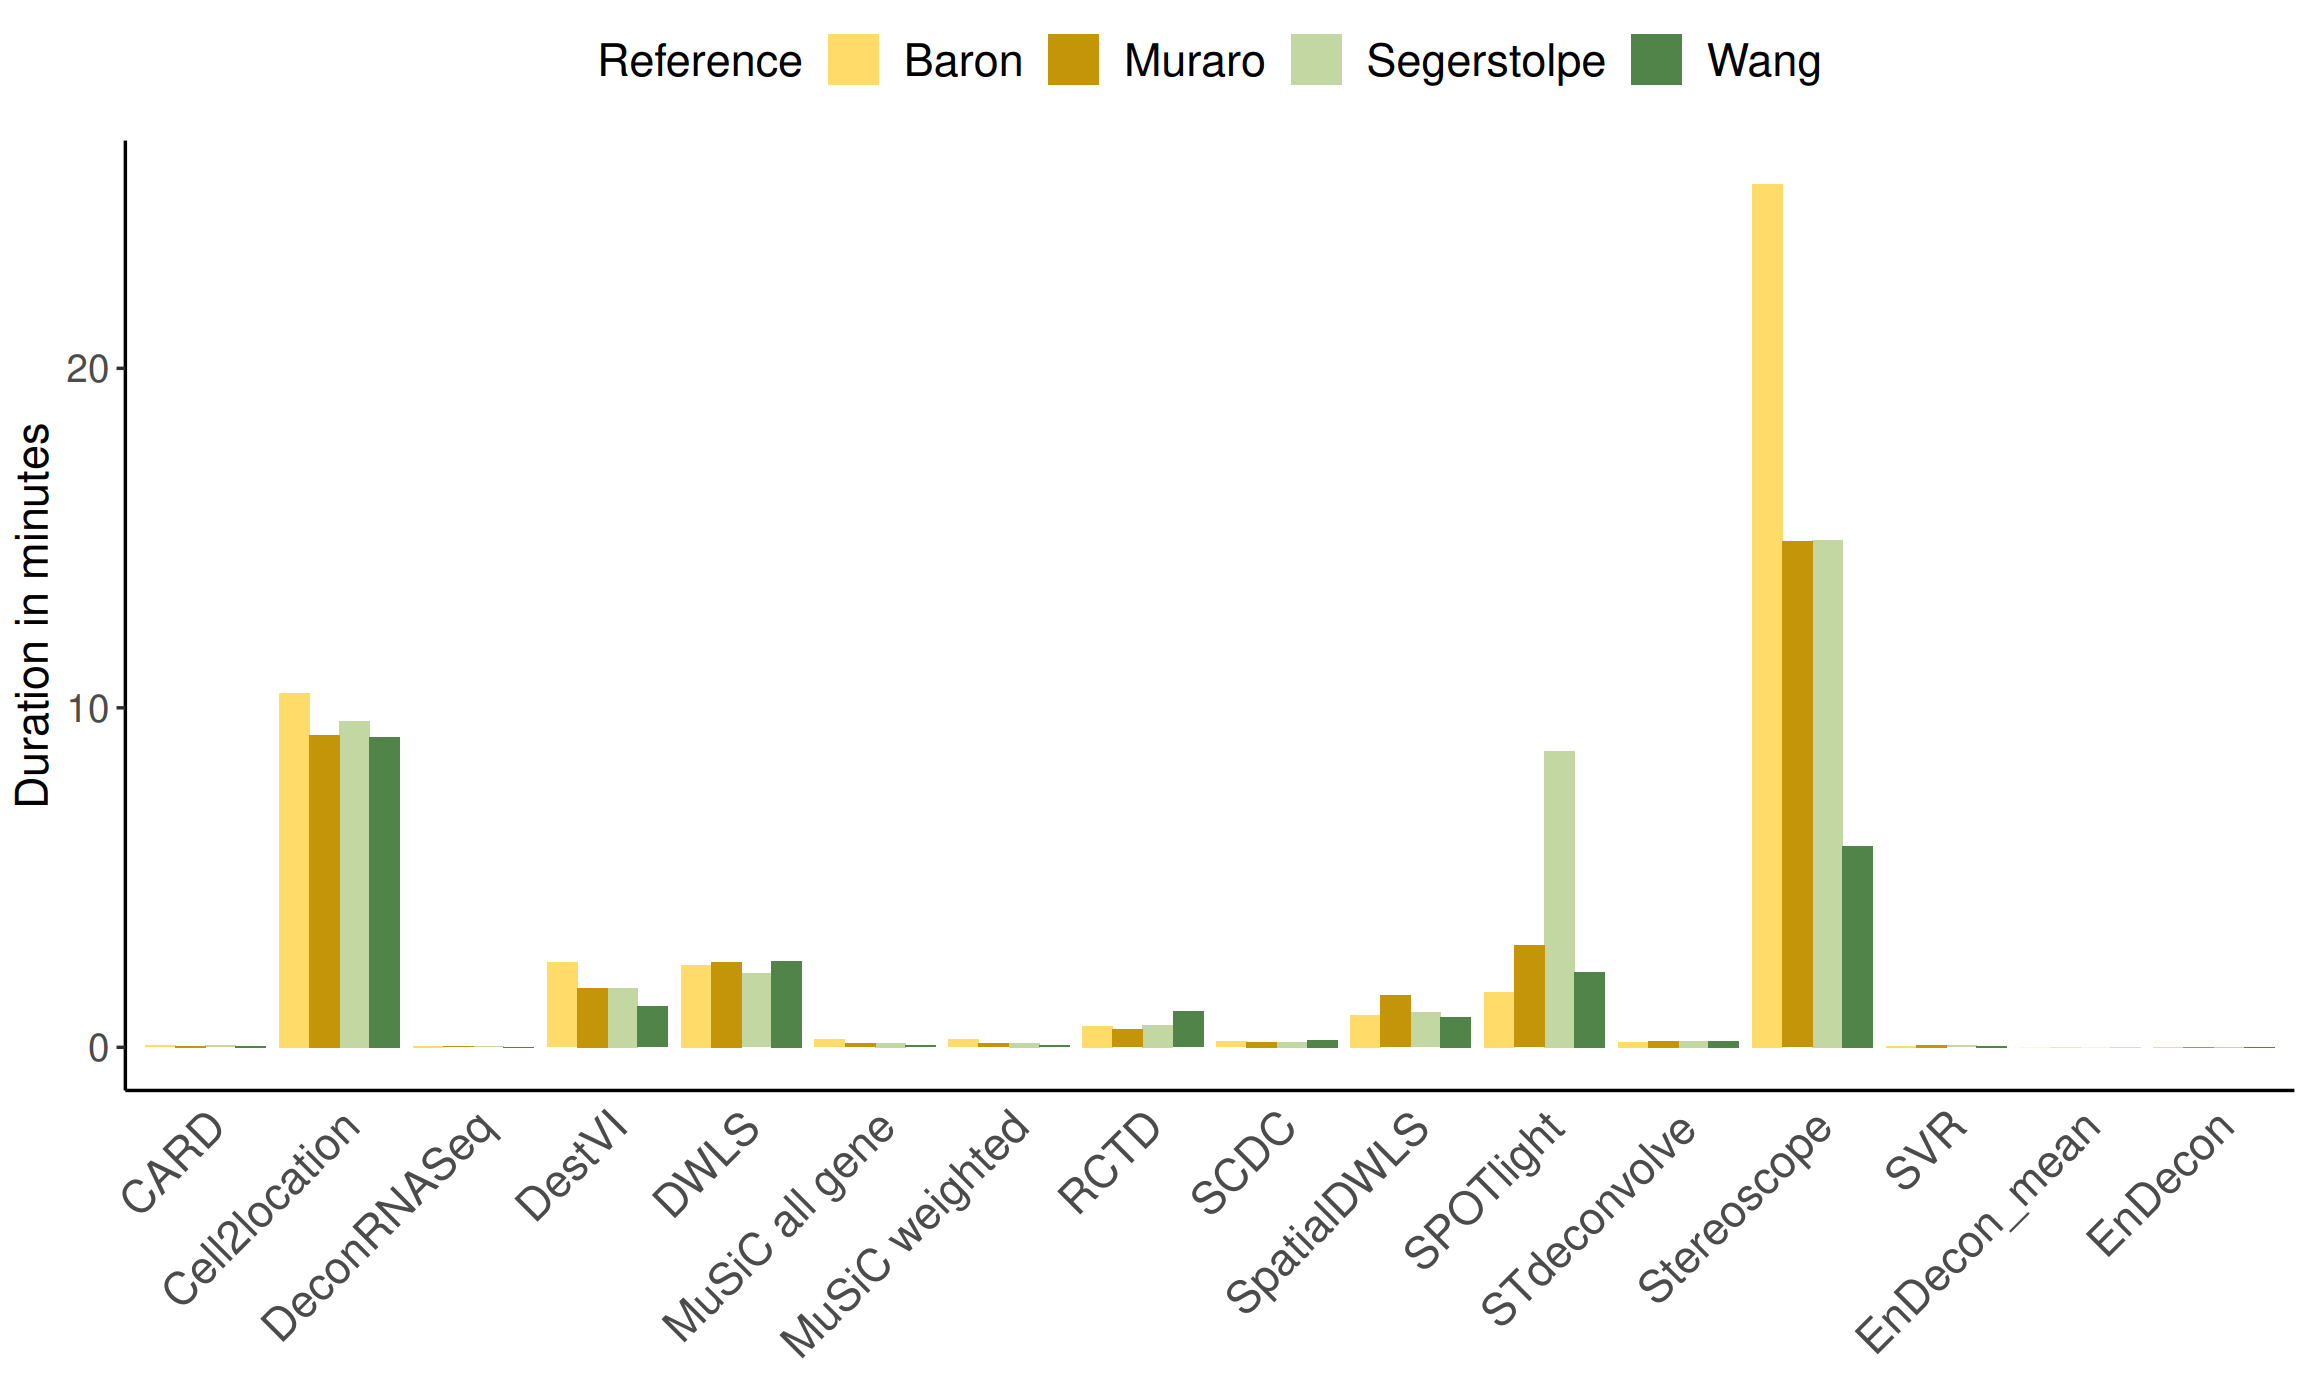
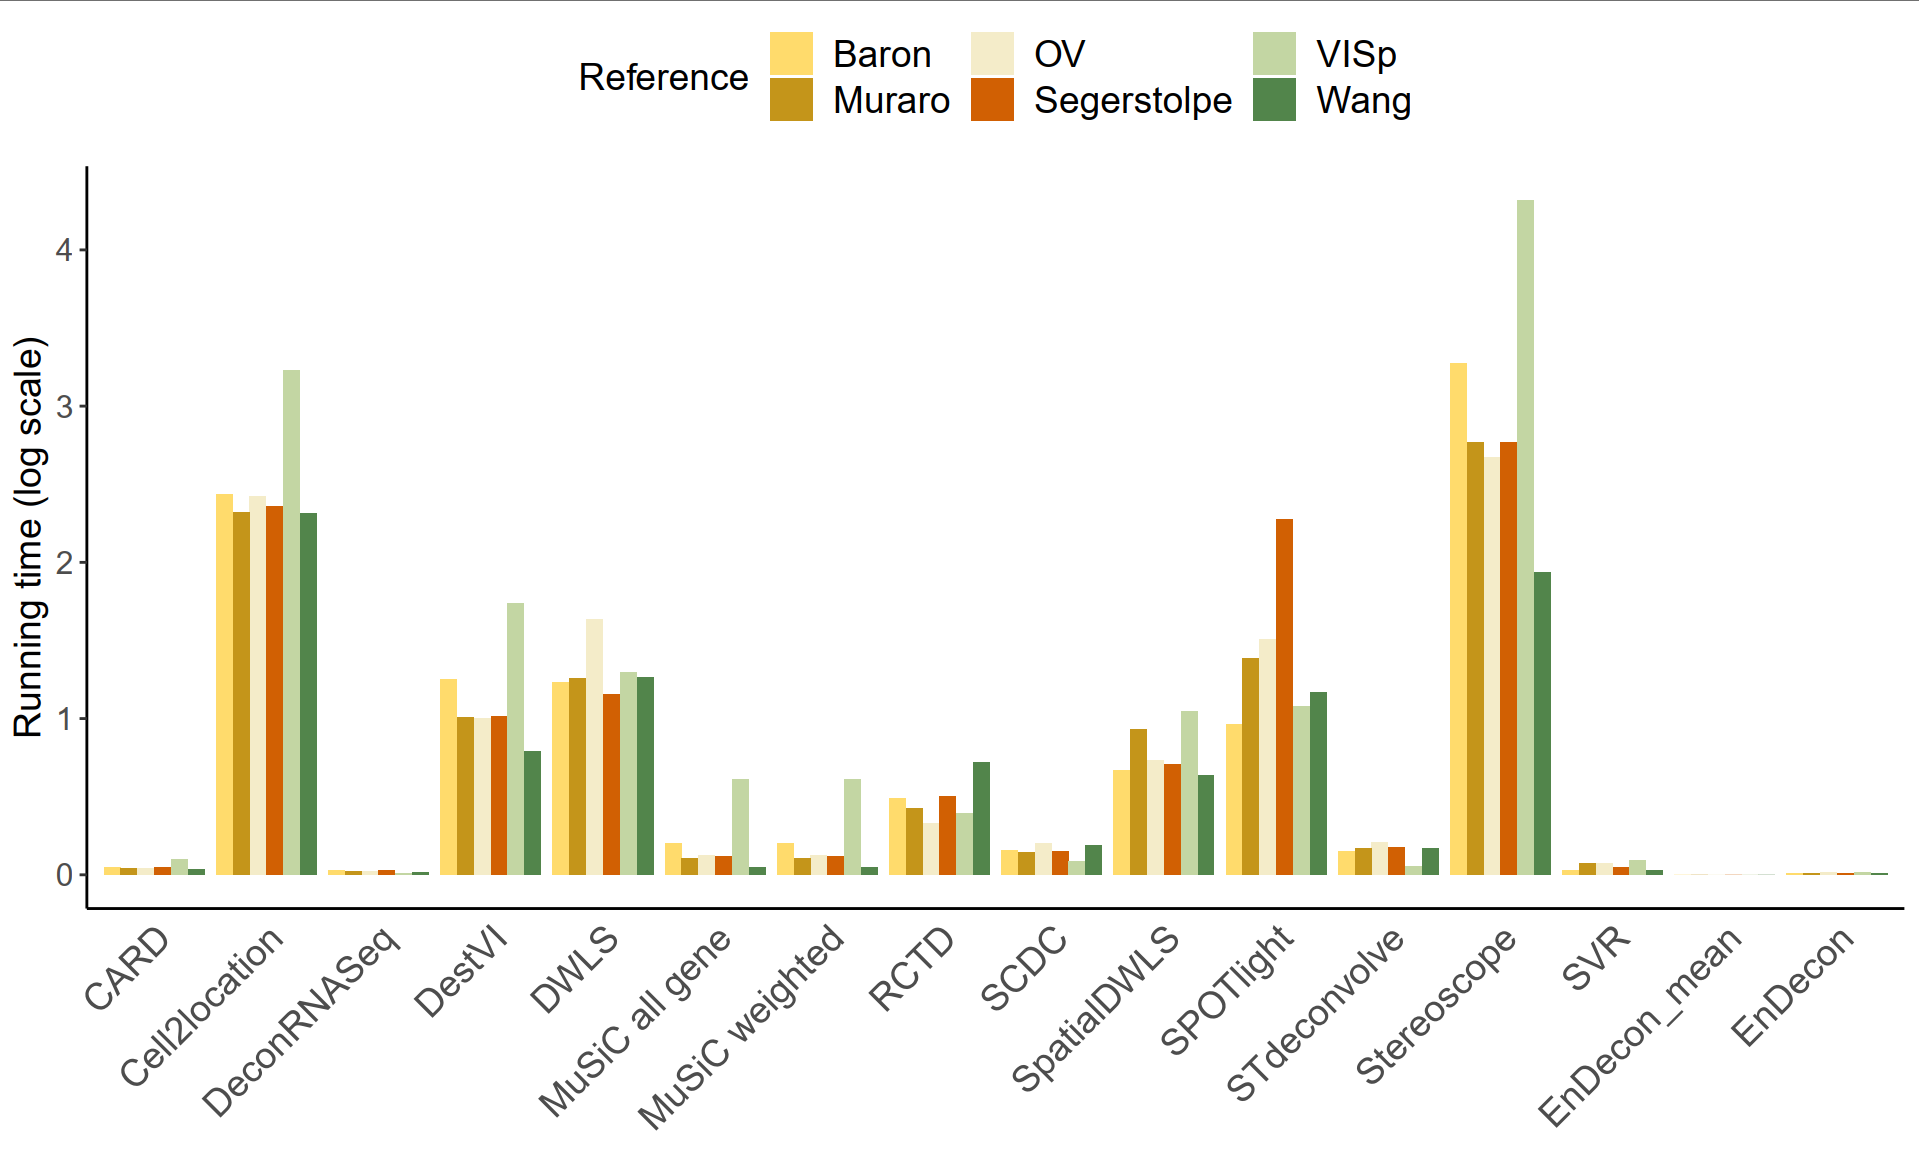
updated

diff --git a/README.md b/README.md
@@ -118,7 +118,7 @@ text](https://github.com/keyalone/EnDecon/blob/master/docs/Figure4.png?raw=true)
 text](https://github.com/keyalone/EnDecon/blob/master/docs/Figure3.png?raw=true)
 ![alt
 text](https://github.com/keyalone/EnDecon/blob/master/docs/Figure5.png?raw=true)
-For a computational method, the accuracy is important, but the running time also needs to be considered. Therefore, we also report the computational time requirement for the deconvolution methods. To obtain the running time, we run the deconvolution methods on a workstation with Intel core i7-10700 CPU (2.90GHz*16), 64 RAM and RTX 3080 GPU. We use the simulation data in Scenario 1 and Senirao2 and SRT with different downsampling rates of scRNA-seq data to show the accuracy and running time of deconvolution methods. The boxplots show that all individual deconvolution methods can be finished in less than 50 minutes. Cell2location, DestVI, DWLS and Stereoscope require more time than other methods. For the tables, we find that the running time of DestVI and Stereoscope is sensitive to sample size of reference scRNA-seq data. As the number of cells in scRNA-seq increases, the longer time requirement of the methods than other deconvolution methods. Note that after running the individual deconvolution methods, EnDecon can integrate the results from individual methods in a short time. Besides, we also provide the overview of the deconvolution methods in terms of PCC, 1-RMSE, 1-JSD and running time on the dataset for users to select appropriate deconvolution methods for ensemble learning.
+For a computational method, the accuracy is important, but the running time also needs to be considered. Therefore, we also report the computational time required for the deconvolution methods. To obtain the running time, we run the deconvolution methods on a workstation with Intel core i7-10700 CPU (2.90GHz*16), 64 RAM and RTX 3080 GPU. The first picture presents the running times of the 14 individual methods as well as our ensemble process on the six datasets across the three scenarios in the simulation experiments. Cell2location, DestVI, DWLS and Stereoscope require more time than other methods. Note that after running the individual deconvolution methods, EnDecon can integrate the results from individual methods in a short time. In addition, we also provide an overview of the deconvolution methods in terms of PCC, 1-RMSE, 1-JSD and running time on all simulated datasets (the second, third and fourth picture) for the users to select appropriate individual deconvolution methods for integration.
 
 ## Tutorials
 - [Analysis of Scenario 1 data with `EnDecon`](https://github.com/keyalone/EnDecon/blob/master/docs/simulation.md)
